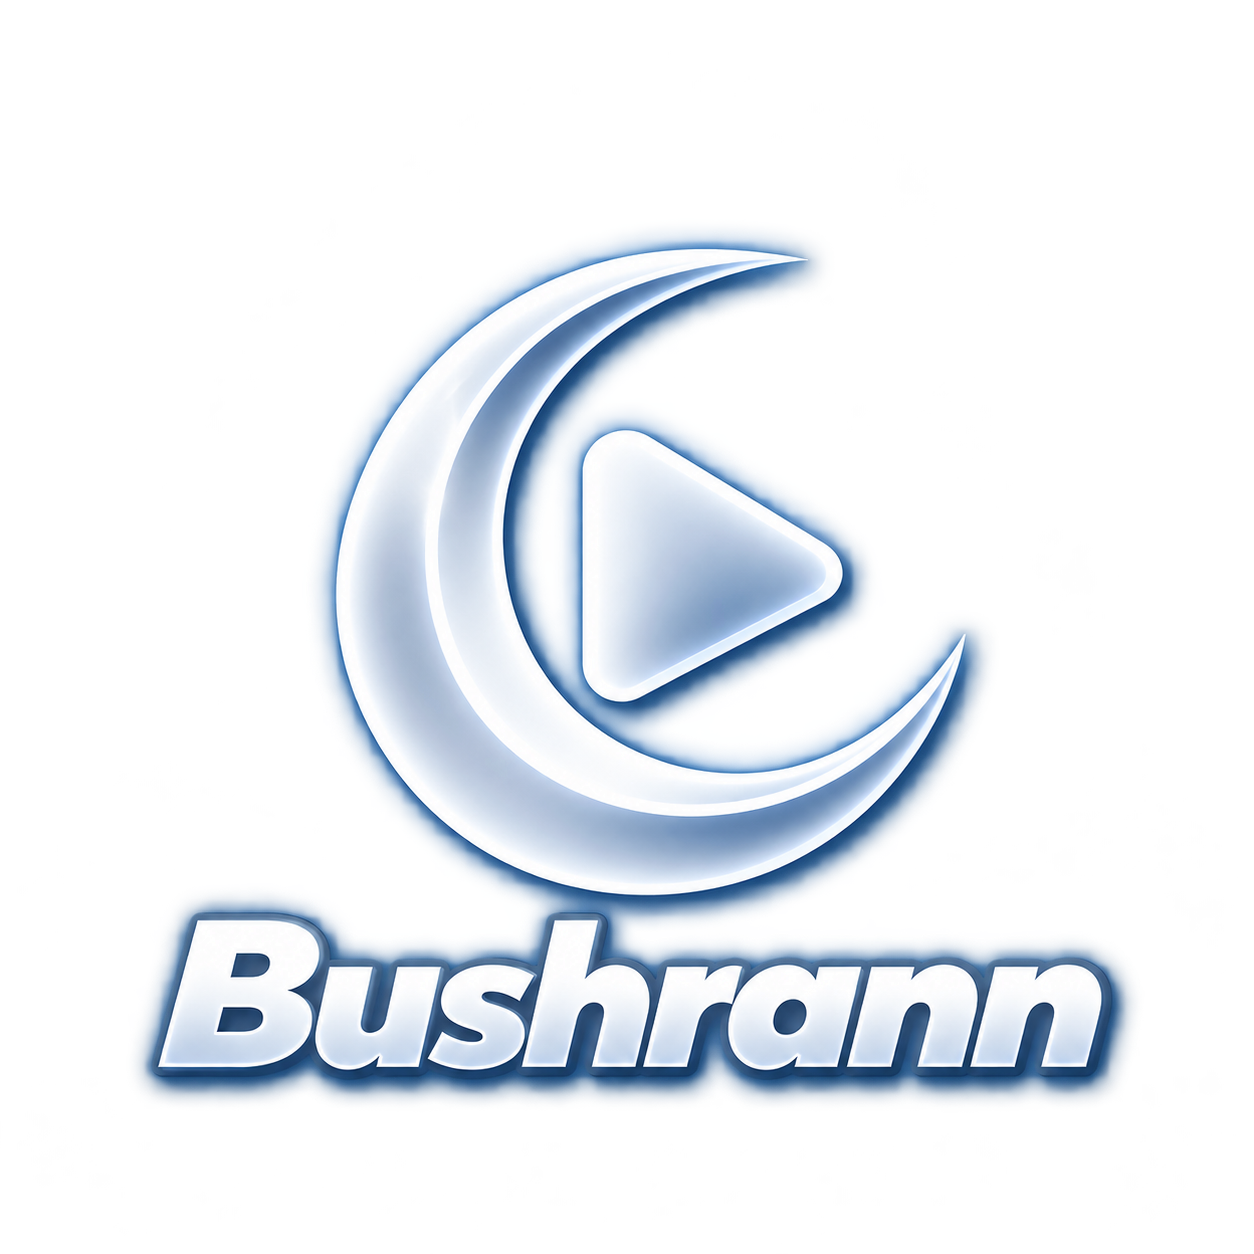
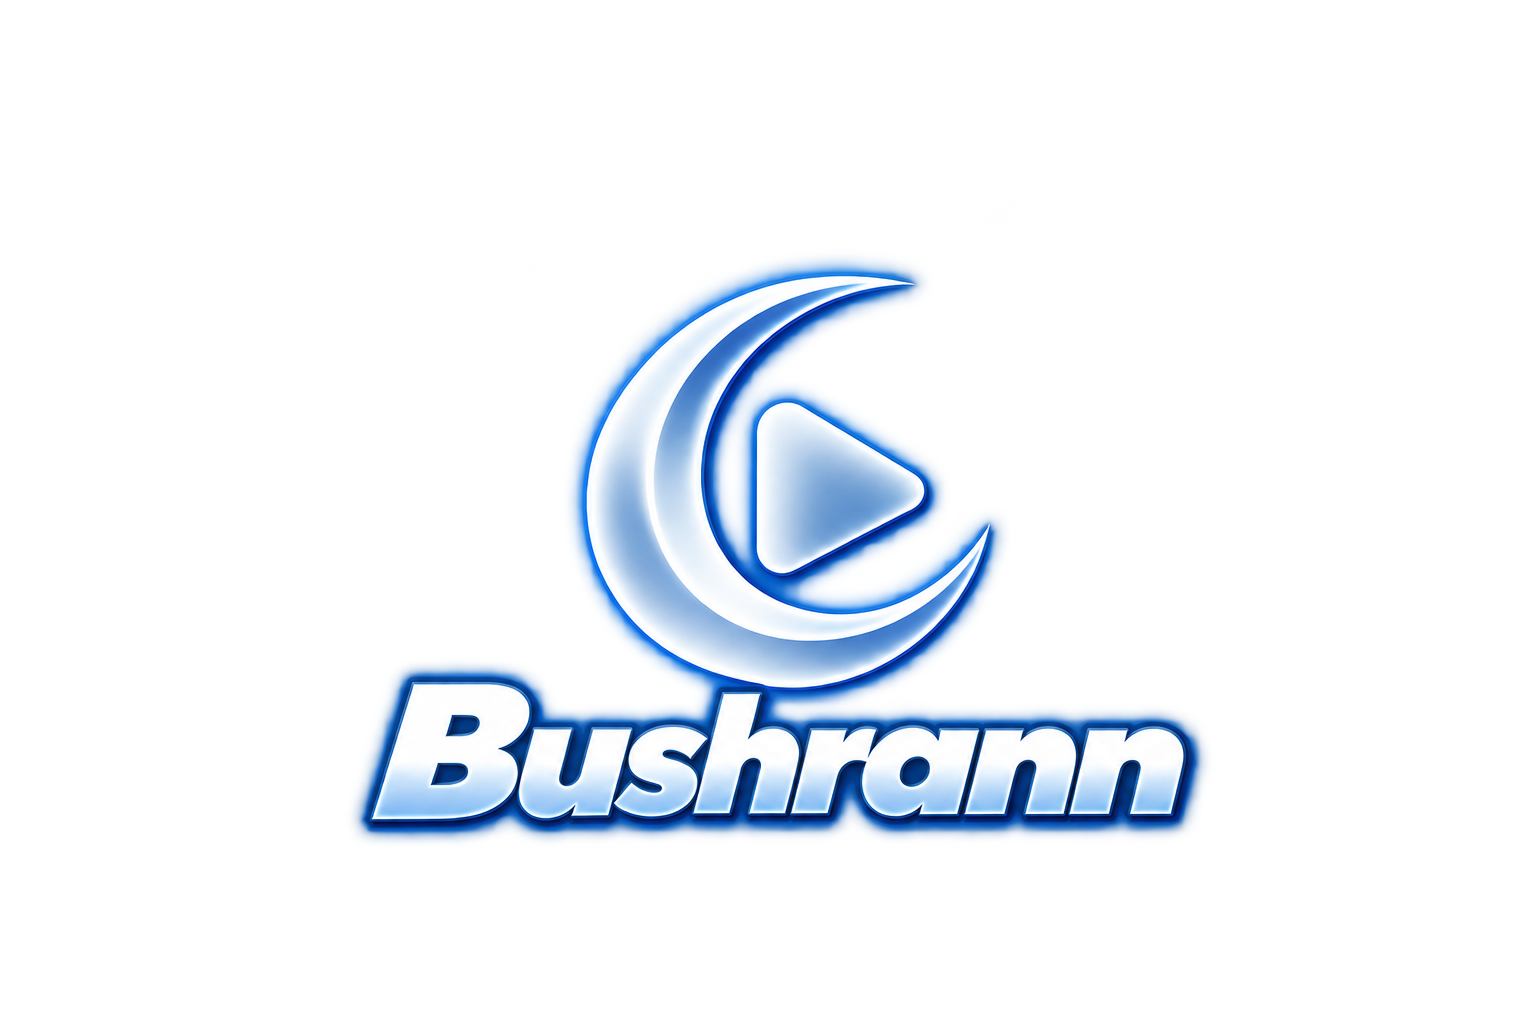
Add animated moving watermark glow

Changed region(s): [[0.0933, 0.1875, 0.9019, 0.875]]

diff --git a/server/routes/videos.js b/server/routes/videos.js
@@ -42,7 +42,7 @@ const WATERMARK_PATH = path.join(
 
 // In-memory job dedupe: simultaneous requests for the same video share
 // one FFmpeg job. Cross-instance duplicates are harmless because the
-// storage key is deterministic (watermarked/v2/<videoId>.mp4).
+// storage key is deterministic (watermarked/v3/<videoId>.mp4).
 const watermarkJobs = new Map();
 
 // ─────────────────────────────────────────────────────────────
@@ -91,7 +91,7 @@ function getPublicVideoUrl(key) {
 }
 
 function getWatermarkStorageKey(videoId) {
-  return `watermarked/v2/${videoId}.mp4`;
+  return `watermarked/v3/${videoId}.mp4`;
 }
 
 function runProcess(command, args) {
@@ -300,9 +300,44 @@ async function downloadToDisk(url, destinationPath) {
   }
 }
 
-// Burns the Bushrann PNG watermark into the bottom-right corner.
-// The watermark width is computed in JS from the source video width
-// (~25%, aspect preserved); the base video is never resized.
+// Four-position movement cycle (20 s): bottom-right, top-left,
+// bottom-left, top-right — 4% horizontal / 12% vertical safe margins,
+// switching instantly every 5 seconds and repeating via mod(t,20).
+// Shared by BOTH watermark builders so the layers can never diverge.
+// NOTE: commas inside the filter expressions are escaped as "\," — ffmpeg's
+// filtergraph parser requires this even when args are passed via spawn
+// (no shell involved); unescaped commas break the filter description.
+const WATERMARK_POS_X =
+  'if(lt(mod(t\\,20)\\,5)\\,W-w-main_w*0.04\\,' +
+  'if(lt(mod(t\\,20)\\,10)\\,main_w*0.04\\,' +
+  'if(lt(mod(t\\,20)\\,15)\\,main_w*0.04\\,W-w-main_w*0.04)))';
+
+const WATERMARK_POS_Y =
+  'if(lt(mod(t\\,20)\\,5)\\,H-h-main_h*0.12\\,' +
+  'if(lt(mod(t\\,20)\\,10)\\,main_h*0.12\\,' +
+  'if(lt(mod(t\\,20)\\,15)\\,H-h-main_h*0.12\\,main_h*0.12)))';
+
+// Layered watermark: sharp [wm] always on top, soft glow [gloww] always
+// on underneath, stronger glow [glows] stepped on/off on a 2-second cycle
+// (enable between(mod(t,2),0.5,1.5)). The watermark is stationary within
+// each 5-second position; only the glow intensity changes.
+function buildWatermarkFilterComplex(watermarkWidthPx) {
+  return (
+    `[1:v]scale=${watermarkWidthPx}:-2,format=rgba,split=3[base][gb1][gb2];` +
+    '[base]colorchannelmixer=aa=1.00[wm];' +
+    '[gb1]gblur=sigma=12,colorchannelmixer=aa=0.55[gloww];' +
+    '[gb2]gblur=sigma=28,colorchannelmixer=aa=0.55[glows];' +
+    `[0:v][glows]overlay=x=${WATERMARK_POS_X}:y=${WATERMARK_POS_Y}` +
+    ":enable='between(mod(t\\,2)\\,0.5\\,1.5)'[v0];" +
+    `[v0][gloww]overlay=x=${WATERMARK_POS_X}:y=${WATERMARK_POS_Y}[v1];` +
+    `[v1][wm]overlay=x=${WATERMARK_POS_X}:y=${WATERMARK_POS_Y}[vout]`
+  );
+}
+
+// Burns the Bushrann PNG watermark into the video, moving between four
+// corners every 5 seconds with a soft stepped glow. The watermark width
+// is computed in JS from the source video width (~25%, aspect preserved);
+// the base video is never resized.
 function buildWatermarkArgs(
   inputPath,
   watermarkFilePath,
@@ -316,9 +351,7 @@ function buildWatermarkArgs(
     '-i',
     watermarkFilePath,
     '-filter_complex',
-    `[1:v]scale=${watermarkWidthPx}:-2,format=rgba,` +
-      'colorchannelmixer=aa=1.00[wm];' +
-      '[0:v][wm]overlay=W-w-main_w*0.04:H-h-main_h*0.12[vout]',
+    buildWatermarkFilterComplex(watermarkWidthPx),
     '-map',
     '[vout]',
     '-map',
@@ -372,9 +405,7 @@ function buildBitrateLimitedWatermarkArgs(
     '-i',
     watermarkFilePath,
     '-filter_complex',
-    `[1:v]scale=${watermarkWidthPx}:-2,format=rgba,` +
-      'colorchannelmixer=aa=1.00[wm];' +
-      '[0:v][wm]overlay=W-w-main_w*0.04:H-h-main_h*0.12[vout]',
+    buildWatermarkFilterComplex(watermarkWidthPx),
     '-map',
     '[vout]',
     '-map',
@@ -690,7 +721,7 @@ async function requireAuth(req, res, next) {
 // Guest-accessible for eligible public videos only. The client sends
 // ONLY the video ID; the server loads the row via the service client,
 // validates it, burns the Bushrann watermark PNG in with FFmpeg, and
-// stores the result at the deterministic key watermarked/v2/<id>.mp4.
+// stores the result at the deterministic key watermarked/v3/<id>.mp4.
 // ─────────────────────────────────────────────────────────────
 
 router.post('/:videoId/watermark', async (req, res) => {
